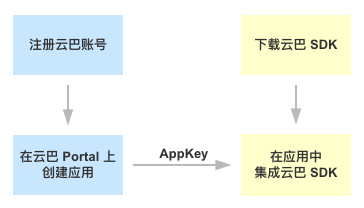
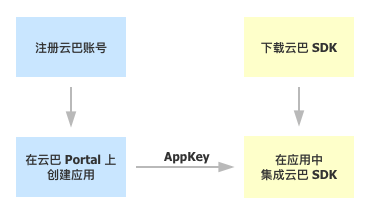
modify images & specs

diff --git a/README.md b/README.md
@@ -94,6 +94,13 @@
 - 需要用到序号时，使用：1. 1.1 1.2 样式。
 - 添加代码的首行统一顶格，其余行则遵守代码格式。
 
+- Anchor：
+  - 一律为小写字母；
+  - 空格用短横杠代替；
+  - 小数点直接忽略掉；
+  - 例如：小标题“自定义 Receiver 在 AndroidManifest.xml 的配置”对应的是：#自定义-receiver-在-androidmanifestxml-的配置
+
+
 ## 渲染后效果问题
 - 换行：Github Markdown（简称 GM）支持 br 换行，但云巴网页（简称 YB）渲染后不支持。（GM 一次换行无效果，两次换行最终效果是一次换行。）
 - 标题字号：GM 上 #### 级的字，在 YB 上比普通正文字体还要小。因此，约定 GM 上最多使用 ### 级，再往下，采用双星号加粗表示标题。还可以使用 1. 1.1 样式。
@@ -117,6 +124,16 @@
 
 ## 图片标注规则
 
-- 约定使用 Paintbrush；
-- 选中：用方框第三行首个红色(Maraschino, sRGB: 237.70.47)3号粗；
-- 覆盖：用直线首行倒数第四个(Magnesium, sRGB:192.192.192)9号粗。
+- 截图
+  - 约定使用 Paintbrush；
+  - 选中：用方框第三行首个红色(Maraschino, sRGB: 237.70.47)3号粗；
+  - 覆盖：用直线首行倒数第四个(Magnesium, sRGB:192.192.192)9号粗。
+
+- 线框图
+  - 目前使用 processOn；
+  - 文字：#323232；
+  - 箭头：#b8b8b8；
+  - 透明度：100%；
+  - 彩色块采用最浅色的一组；
+  - 彩色块加白色 10px 边框，可使得箭头首尾与边框分离，更美观；
+
